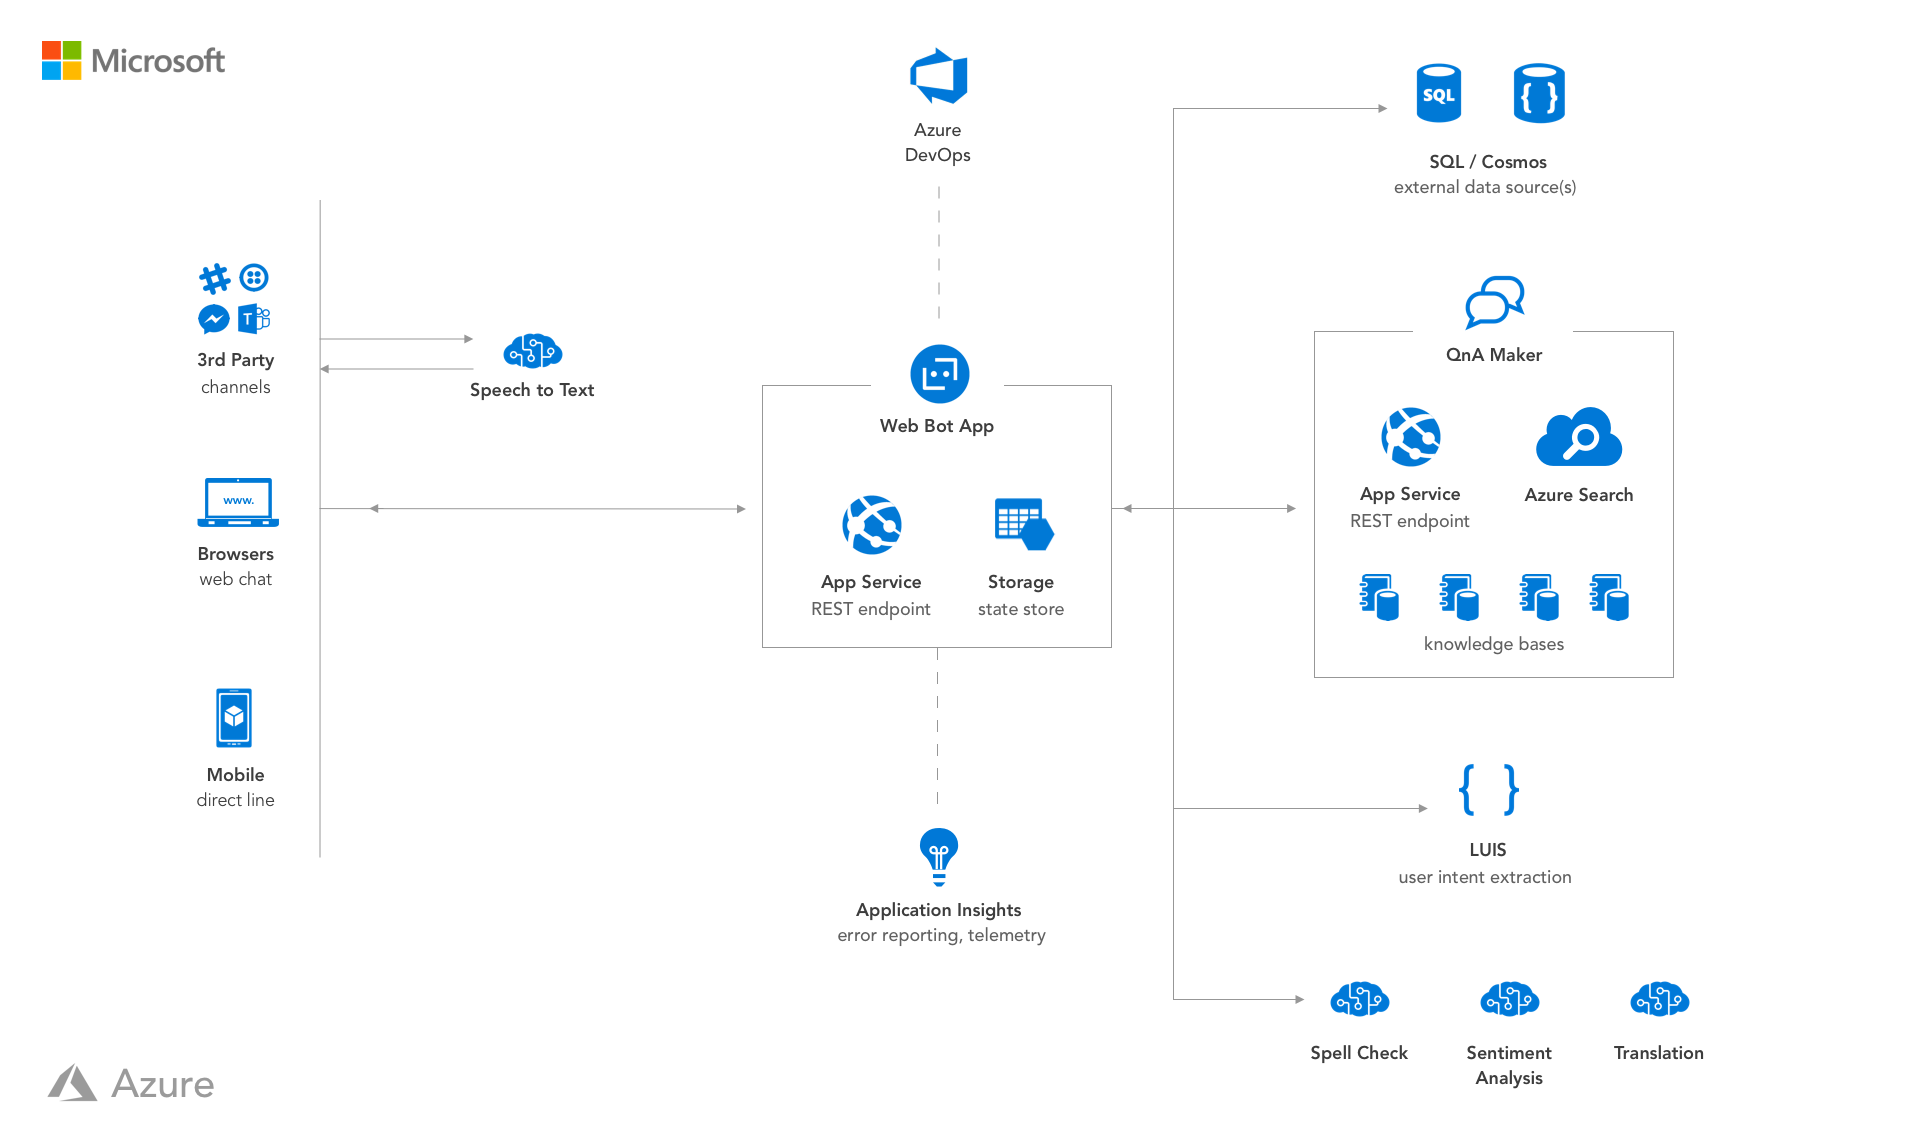
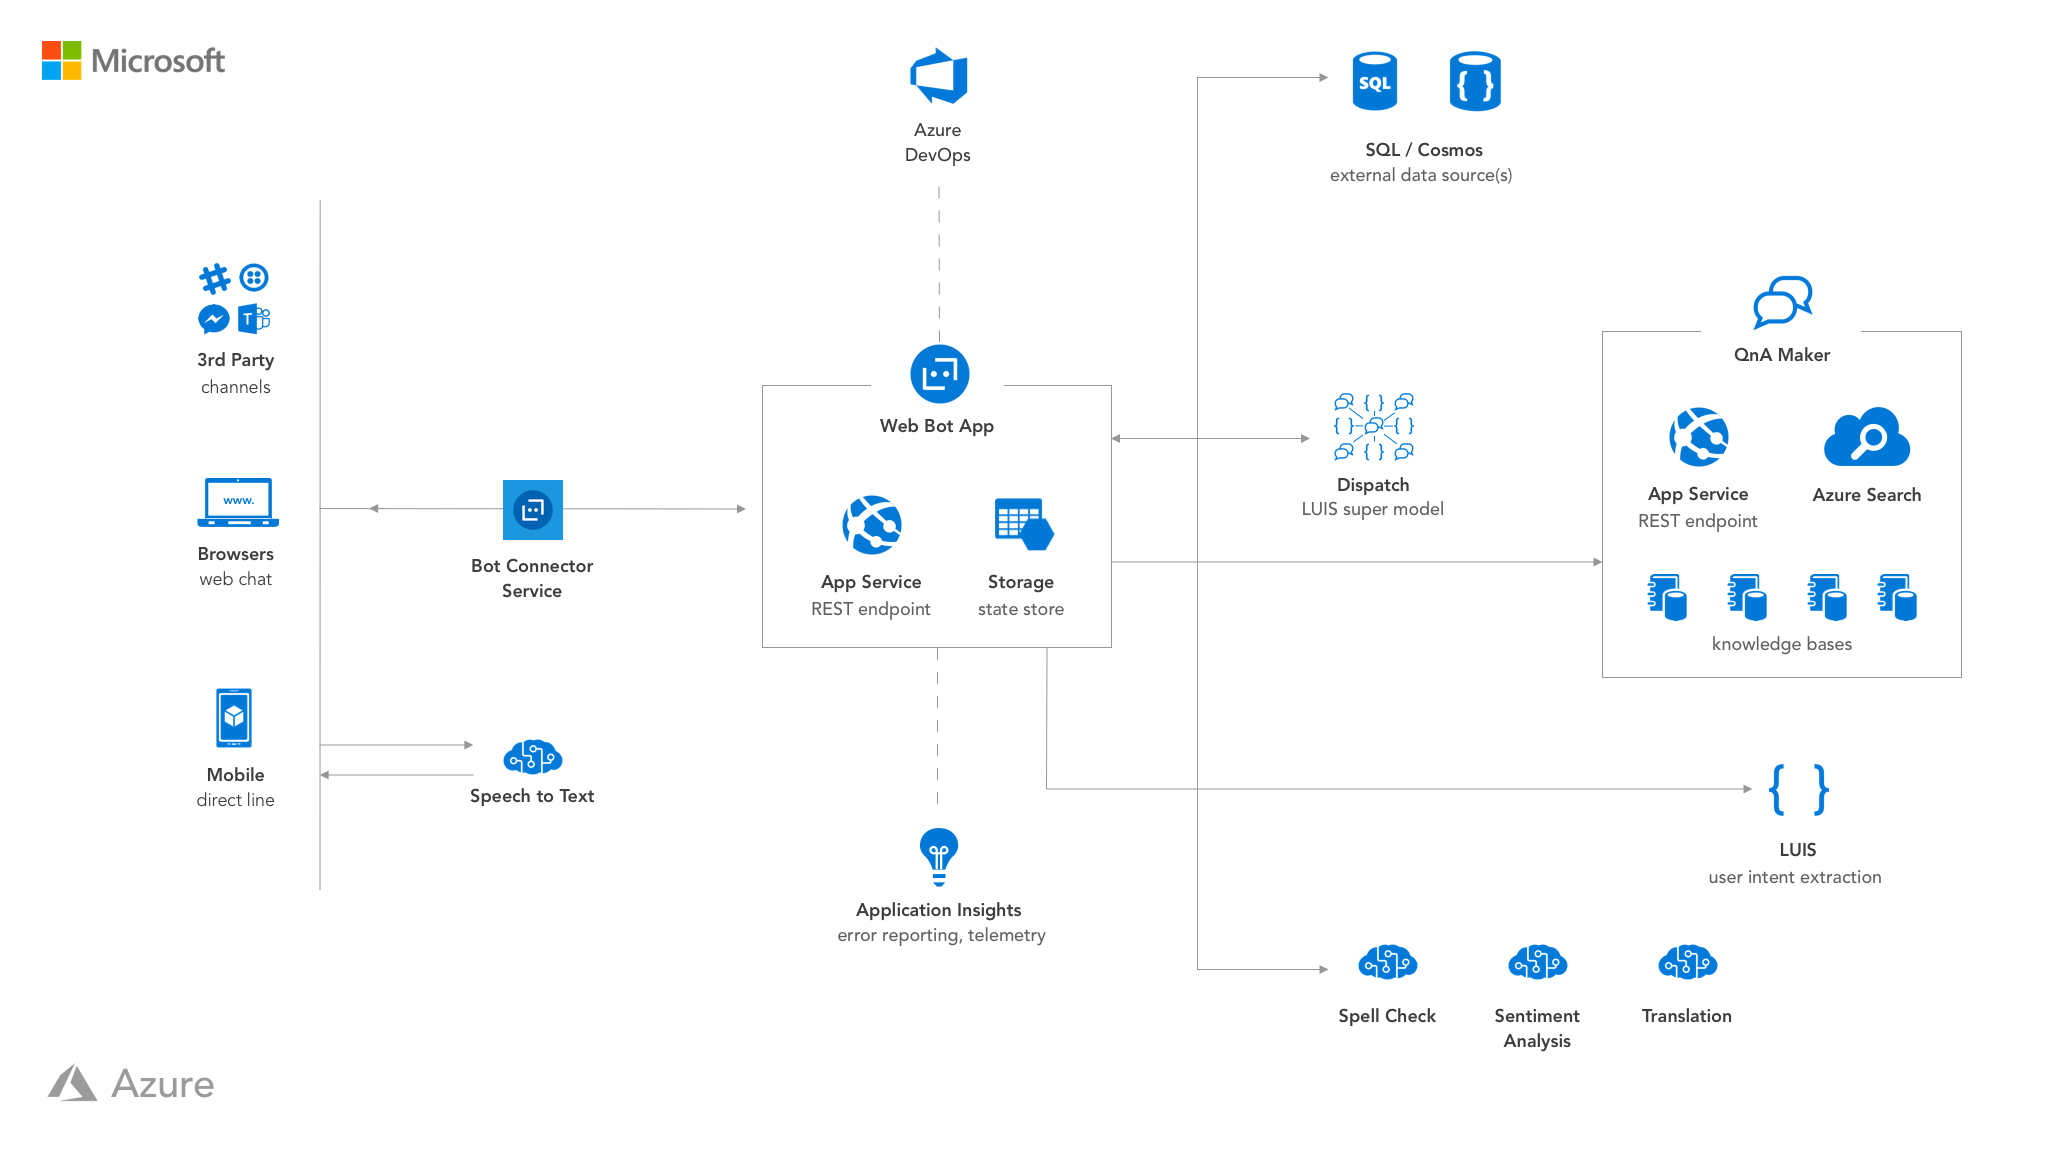
arch diagram update

diff --git a/README.md b/README.md
@@ -3,8 +3,8 @@
 ### This sample incorporates the following:
 - QnA Maker for injested FAQ intelligent search
 - LUIS for natural language intent extraction
-- Dispatch to create one cohesive LUIS model used to determine which QnA Maker knowledge base to query or LUIS model to use
-- Agent Handoff to route end user to a live agent when the user's intent or question cannot be addressed
+- Dispatch to create one cohesive LUIS model used to determine which QnA Maker knowledge base or LUIS model to query
+- Agent Handoff to route end-user to a live agent when the user's intent or question cannot be addressed
 
 ## Azure Services Architecture
 ![Bot Service Architecture](https://github.com/rob-derosa/GartnerBot/blob/master/assets/bot_service_architecture.png?raw=true)
